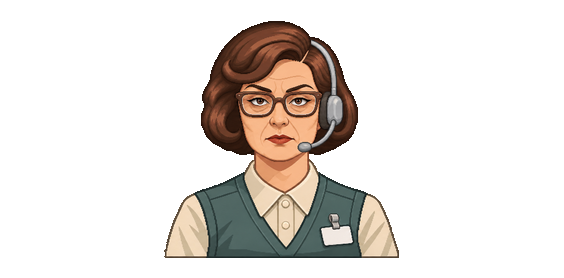
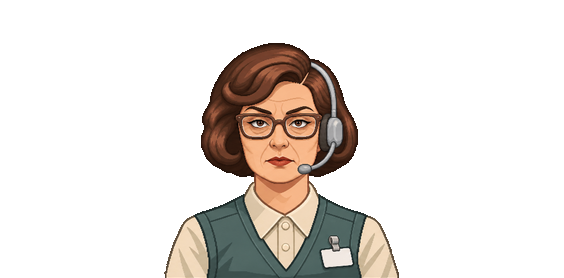
Owner NPC edits: seat receptionist_idle on frame bottom; add idle2 alternate
receptionist_idle.png: owner's 22 px downward shift (visible pixels
unchanged otherwise); hidden RGB under alpha 0 zeroed. 66c4f32a ->
761a45d4. receptionist_idle2.png: owner's alternate receptionist, alpha
thresholded to 0/255 (>=128), hidden RGB zeroed, 38488a22; committed and
pinned but not loaded by the game. QA pins/allowlist and docs/59 s.7.

Changed region(s): [[0.2713, 0.0576, 0.7234, 1.0]]

diff --git a/game/qa/run_qa.js b/game/qa/run_qa.js
@@ -44,7 +44,10 @@ const PRODUCTION_ART = {
[1 lines of base64/hex data omitted]
   // Revised 2026-11-07 (docs/59): tighter workstation framing; was 2f23075f... (docs/56/57).
[2 lines of base64/hex data omitted]
+  // Owner edit 2026-11-07 (docs/59 section 7): moved down 22 px to sit on the frame bottom; was 66c4f32a...
[1 lines of base64/hex data omitted]
+  // Owner's alternate receptionist to try (docs/59 section 7). Committed and pinned, not loaded by the game.
[1 lines of base64/hex data omitted]
 };
 const SCENE_ART = 'art/scenes/conference_hall/reception/reception_scene.png';
 const BG_ART = 'art/portraits/receptionist/reception_background.png';
@@ -188,6 +191,15 @@ function staticChecks() {
   check(b, 'receptionist NPC is 564x278 RGBA with binary alpha {0,255}, real transparency and no RGB hidden under alpha 0',
     npc.width === 564 && npc.height === 278 && npc.type === 6 && [...alphas].sort((x, y) => x - y).join() === '0,255' && pxAt(npc, 0, 0)[3] === 0 && hiddenRgb === 0,
     { size: [npc.width, npc.height], type: npc.type, alphas: [...alphas].slice(0, 6), hiddenRgb });
+  const alt = png('art/portraits/receptionist/receptionist_idle2.png'), altAlpha = new Set();
+  let altHidden = 0;
+  for (let i = 0; i < alt.width * alt.height; i++) {
+    const a = alt.data[i * 4 + 3];
+    altAlpha.add(a);
+    if (a === 0 && (alt.data[i * 4] || alt.data[i * 4 + 1] || alt.data[i * 4 + 2])) altHidden++;
+  }
+  check(b, 'alternate receptionist (idle2) is 564x278 RGBA with binary alpha and no RGB hidden under alpha 0', alt.width === 564 && alt.height === 278
+    && alt.type === 6 && [...altAlpha].sort((x, y) => x - y).join() === '0,255' && altHidden === 0, { size: [alt.width, alt.height], altHidden });
   const candidates = git('ls-files', 'art').split('\n').filter((f) => /_candidate_/.test(f));
   check(b, 'no duplicate candidate PNGs remain beside the production files', candidates.length === 0, candidates);
   const ownerArtBad = Object.keys(OWNER_ART).filter((f) => !fs.existsSync(path.join(ROOT, f)) || sha256(fs.readFileSync(path.join(ROOT, f))) !== OWNER_ART[f]);

diff --git a/docs/59_M2_RECEPTION_PORTRAIT_BACKGROUND_REVISION_01.md b/docs/59_M2_RECEPTION_PORTRAIT_BACKGROUND_REVISION_01.md
@@ -70,3 +70,27 @@ The owner/PMO found that the integrated portrait background (docs/56 §2.3, docs
 - `game/qa/screenshots/00b_reception_art_inspector_open.png`: the inspector still over the right column.
 
 A before/after comparison of the old and new background, alone and with the NPC, was made locally for review and is not committed.
+
+## 7. Owner NPC edits on this branch (2026-11-07, later)
+
+The owner supplied two NPC files, edited in the integration worktree, for use on this branch.
+
+### `art/portraits/receptionist/receptionist_idle.png`: owner edit
+
+The sprite was not seated on the bottom of the portrait frame. The owner moved it down by **exactly 22 px**: every visible pixel matches the previous file shifted by 22 rows, and nothing was redrawn. The torso now meets the bottom edge, opaque rows run from y 43 to 278, and the two rows that fell below the canvas are cut off.
+
+- **Cleanup:** RGB under alpha 0 was zeroed (the editor had saved colour under 101,567 transparent pixels). No visible pixel changed, and alpha was already {0,255}.
[1 lines of base64/hex data omitted]
+- 564×278 RGBA, 33,796 opaque pixels, one connected silhouette.
+- The game uses it as before: same path, same layer, 1×.
+
+### `art/portraits/receptionist/receptionist_idle2.png`: alternate receptionist to try
+
+This is a new, distinct receptionist design from the owner, also seated on the frame bottom.
+
+- **Cleanup:** the same binary-alpha rule as the other portrait NPCs. Alpha ≥ 128 → 255, otherwise 0, and RGB under alpha 0 is zeroed. The owner file had 241 alpha levels. No pixel at full alpha changed.
[1 lines of base64/hex data omitted]
+- 564×278 RGBA, 36,400 opaque pixels, one connected silhouette.
+- **Committed and pinned, but not loaded by the game.** `receptionist_idle.png` stays the active NPC until the owner/PMO choose. Switching to `idle2` would mean either pointing `G.RECEPTION_ART.portraitNpc` at it or replacing `receptionist_idle.png`, plus the QA pin.
+
+Game QA pins both hashes; the `art/` allowlist names each file exactly.
